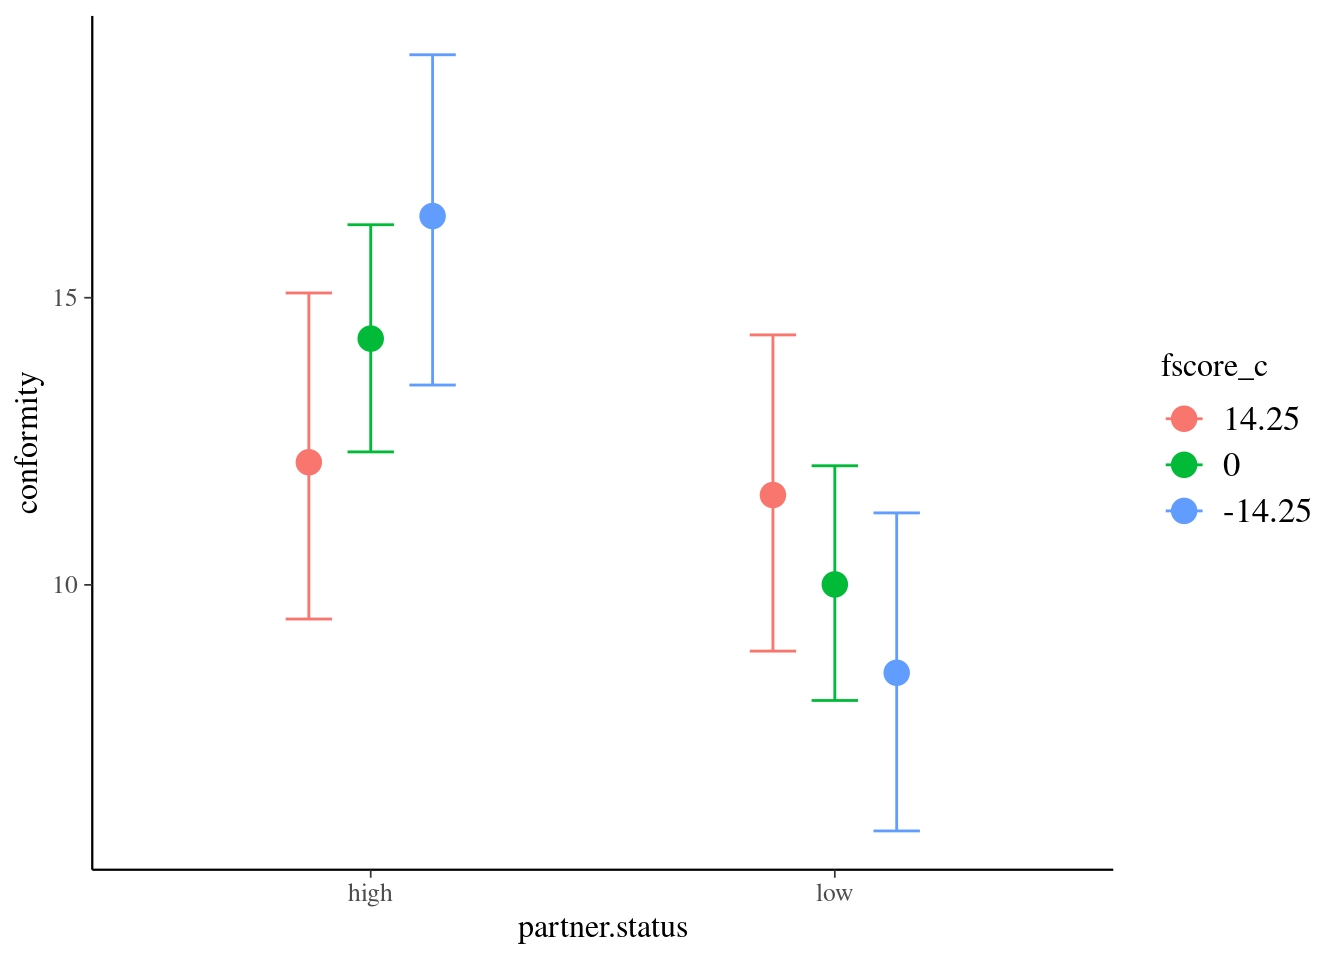
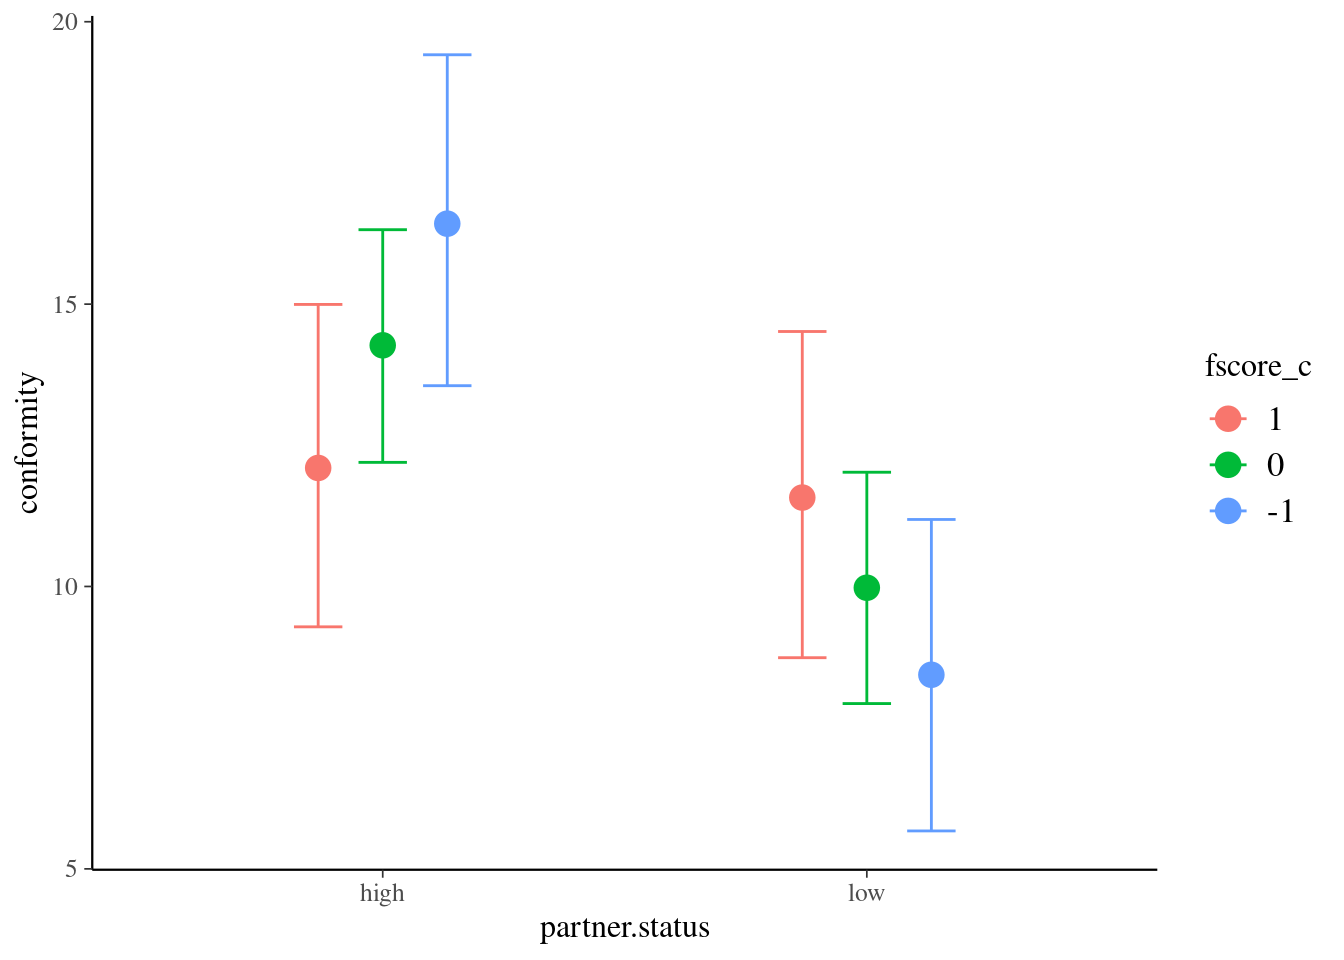
post1

diff --git a/post/test/index.html b/post/test/index.html
@@ -28,7 +28,8 @@
   
     
   
-  <meta name="description" content="Continuous and categorical predictors library(tidyverse) ## ── Attaching packages ──────────────────────────────────────────────────────────── tidyverse 1.2.1 ── ## ✔ ggplot2 3.1.0 ✔ purrr 0.3.0 ## ✔ tibble 2.0.1 ✔ dplyr 0.7.8 ## ✔ tidyr 0.8.2 ✔ stringr 1.3.1 ## ✔ readr 1.3.1 ✔ forcats 0.3.0 ## ── Conflicts ─────────────────────────────────────────────────────────────── tidyverse_conflicts() ── ## ✖ dplyr::filter() masks stats::filter() ## ✖ dplyr::lag() masks stats::lag() library(carData) data(Moore) Moore %&gt;% glimpse() ## Observations: 45 ## Variables: 4 ## $ partner.">
+  <meta name="description" content="This post is the first of a series of short tutorials on how to approach statistical analyses common among social psychologist using Bayesian approach and R package - brms
+Moderation analysis is one the most widely used tools to approach interactions in regression models with at least 1 continuous term. Its popularity has outbursted since the release of an SPSS/SAS macro PROCESS. PROCESS is easy to use and allows to fit a variety of models.">
 
   
   <link rel="alternate" hreflang="en-us" href="/post/test/">
@@ -123,7 +124,8 @@
   <meta property="og:site_name" content="Wiktor Soral">
   <meta property="og:url" content="/post/test/">
   <meta property="og:title" content="Bayesian moderation analysis | Wiktor Soral">
-  <meta property="og:description" content="Continuous and categorical predictors library(tidyverse) ## ── Attaching packages ──────────────────────────────────────────────────────────── tidyverse 1.2.1 ── ## ✔ ggplot2 3.1.0 ✔ purrr 0.3.0 ## ✔ tibble 2.0.1 ✔ dplyr 0.7.8 ## ✔ tidyr 0.8.2 ✔ stringr 1.3.1 ## ✔ readr 1.3.1 ✔ forcats 0.3.0 ## ── Conflicts ─────────────────────────────────────────────────────────────── tidyverse_conflicts() ── ## ✖ dplyr::filter() masks stats::filter() ## ✖ dplyr::lag() masks stats::lag() library(carData) data(Moore) Moore %&gt;% glimpse() ## Observations: 45 ## Variables: 4 ## $ partner."><meta property="og:image" content="/img/icon-192.png">
+  <meta property="og:description" content="This post is the first of a series of short tutorials on how to approach statistical analyses common among social psychologist using Bayesian approach and R package - brms
+Moderation analysis is one the most widely used tools to approach interactions in regression models with at least 1 continuous term. Its popularity has outbursted since the release of an SPSS/SAS macro PROCESS. PROCESS is easy to use and allows to fit a variety of models."><meta property="og:image" content="/img/icon-192.png">
   <meta property="og:locale" content="en-us">
   
   
@@ -328,7 +330,7 @@
   
   <span class="middot-divider"></span>
   <span class="article-reading-time">
-    2 min read
+    4 min read
   </span>
   
 
@@ -410,9 +412,16 @@
       
 
 
+<p><em>This post is the first of a series of short tutorials on how to approach statistical analyses common among social psychologist using Bayesian approach and R package - brms</em></p>
+<p>Moderation analysis is one the most widely used tools to approach interactions in regression models with at least 1 continuous term. Its popularity has outbursted since the release of an SPSS/SAS macro <a href="https://www.processmacro.org/">PROCESS</a>. PROCESS is easy to use and allows to fit a variety of models. However, it lacks certain capabilities (like ability to fit multilevel models or generalized regression models or mix of both). Also PROCESS cannot handle Bayesian moderation analysis. One can use <a href="https://jasp-stats.org/">JASP</a> to conduct Baysian regression analysis with interaction terms, but sadly it’s post-processing capabilities are quite limited (at least to me).</p>
+<p>In this post I will show, how to easily and in just a few steps fit Bayesian moderation model in R. As some of my colleagues admitted lack of R package that would replace PROCESS is one of the major factors that restrains them from swapping SPSS with R. Actually there are certain packages that aspire to replace PROCESS in R. Here, however I would to show you that you don’t need to use a specialized package and you can go on with a quite general one - <code>brms</code>.</p>
+<p>Lets start with something relatively simple and easy to follow.</p>
 <div id="continuous-and-categorical-predictors" class="section level2">
 <h2>Continuous and categorical predictors</h2>
-<pre class="r"><code>library(tidyverse)</code></pre>
+<p>In this post I will extensively use <code>tidyverse</code>.</p>
+<pre class="r"><code># install.packages(&quot;tidyverse&quot;)
+# install.packages(&quot;carData&quot;)
+library(tidyverse)</code></pre>
 <pre><code>## ── Attaching packages ──────────────────────────────────────────────────────────── tidyverse 1.2.1 ──</code></pre>
 <pre><code>## ✔ ggplot2 3.1.0     ✔ purrr   0.3.0
 ## ✔ tibble  2.0.1     ✔ dplyr   0.7.8
@@ -421,8 +430,10 @@
 <pre><code>## ── Conflicts ─────────────────────────────────────────────────────────────── tidyverse_conflicts() ──
 ## ✖ dplyr::filter() masks stats::filter()
 ## ✖ dplyr::lag()    masks stats::lag()</code></pre>
-<pre class="r"><code>library(carData)
+<pre class="r"><code>library(carData) # for an example dataset
+
 data(Moore)
+
 Moore %&gt;% 
   glimpse()</code></pre>
 <pre><code>## Observations: 45
@@ -431,18 +442,23 @@ Moore %&gt;%
 ## $ conformity     &lt;int&gt; 8, 4, 8, 7, 10, 6, 12, 4, 13, 12, 4, 13, 7, 9, 9,…
 ## $ fcategory      &lt;fct&gt; low, high, high, low, low, low, medium, medium, l…
 ## $ fscore         &lt;int&gt; 37, 57, 65, 20, 36, 18, 51, 44, 31, 36, 42, 56, 2…</code></pre>
+<p>By default contrast are set to <code>contr.treatment</code>. This means that a <span class="math inline">\(j\)</span> regression coefficient a categorical variable is interpreted as a difference of means between a level <span class="math inline">\(j+1\)</span> of the variable and a reference level <span class="math inline">\(1\)</span>.</p>
 <pre class="r"><code>contrasts(Moore$partner.status)</code></pre>
 <pre><code>##      low
 ## high   0
 ## low    1</code></pre>
+<p>We switch contrasts to <code>contr.sum</code> for the categorical variable.</p>
 <pre class="r"><code>contrasts(Moore$partner.status) &lt;- &quot;contr.sum&quot;
 contrasts(Moore$partner.status)</code></pre>
 <pre><code>##      [,1]
 ## high    1
 ## low    -1</code></pre>
+<p>We standardize the continuous variable - fscore.</p>
 <pre class="r"><code>Moore %&gt;% 
-  mutate(fscore_c = fscore - mean(fscore)) -&gt; Moore</code></pre>
-<pre class="r"><code>library(brms)</code></pre>
+  mutate(fscore_c = (fscore - mean(fscore))/sd(fscore)) -&gt; Moore</code></pre>
+<p>We fit our model with <code>brms</code> package. Both installation and fitting may take a while.</p>
+<pre class="r"><code># install.packages(&quot;brms&quot;)
+library(brms)</code></pre>
 <pre><code>## Ładowanie wymaganego pakietu: Rcpp</code></pre>
 <pre><code>## Loading &#39;brms&#39; package (version 2.7.0). Useful instructions
 ## can be found by typing help(&#39;brms&#39;). A more detailed introduction
@@ -455,6 +471,7 @@ fit1 &lt;-
       chains = 4, cores = 4)</code></pre>
 <pre><code>## Compiling the C++ model</code></pre>
 <pre><code>## Start sampling</code></pre>
+<p>Here we can print summary of posterior distribution of coefficients.</p>
 <pre class="r"><code>fit1</code></pre>
 <pre><code>##  Family: gaussian 
 ##   Links: mu = identity; sigma = identity 
@@ -465,10 +482,10 @@ fit1 &lt;-
 ## 
 ## Population-Level Effects: 
 ##                          Estimate Est.Error l-95% CI u-95% CI Eff.Sample
-## Intercept                   12.15      0.71    10.79    13.52       4859
-## partner.status1              2.14      0.72     0.69     3.58       5111
-## fscore_c                    -0.02      0.05    -0.12     0.08       5416
-## partner.status1:fscore_c    -0.13      0.05    -0.23    -0.03       4663
+## Intercept                   12.14      0.71    10.74    13.51       5360
+## partner.status1              2.14      0.75     0.73     3.61       4525
+## fscore_c                    -0.30      0.72    -1.75     1.13       4769
+## partner.status1:fscore_c    -1.86      0.71    -3.25    -0.43       4464
 ##                          Rhat
 ## Intercept                1.00
 ## partner.status1          1.00
@@ -477,13 +494,16 @@ fit1 &lt;-
 ## 
 ## Family Specific Parameters: 
 ##       Estimate Est.Error l-95% CI u-95% CI Eff.Sample Rhat
-## sigma     4.69      0.53     3.79     5.82       4094 1.00
+## sigma     4.70      0.54     3.80     5.89       3795 1.00
 ## 
 ## Samples were drawn using sampling(NUTS). For each parameter, Eff.Sample 
 ## is a crude measure of effective sample size, and Rhat is the potential 
 ## scale reduction factor on split chains (at convergence, Rhat = 1).</code></pre>
+<p>Here we print simple slopes.</p>
 <pre class="r"><code>marginal_effects(fit1, &quot;partner.status:fscore_c&quot;)</code></pre>
 <p><img src="/post/rmarkdown_files/figure-html/unnamed-chunk-7-1.png" width="672" /></p>
+<pre class="r"><code>marginal_effects(fit1, &quot;fscore_c:partner.status&quot;)</code></pre>
+<p><img src="/post/rmarkdown_files/figure-html/unnamed-chunk-8-1.png" width="672" /></p>
 </div>
 
     </div>
@@ -493,7 +513,7 @@ fit1 &lt;-
 
 <div class="article-tags">
   
-  <a class="badge badge-light" href="/tags/test/">Test</a>
+  <a class="badge badge-light" href="/tags/bayesian/">Bayesian</a>
   
 </div>
 

diff --git a/tags/bayesian/index.html b/tags/bayesian/index.html
@@ -1,3 +1,5 @@
+
+
 <!DOCTYPE html>
 <html lang="en-us">
 <head>
@@ -31,7 +33,7 @@
   <meta name="description" content="Personal blog on Wiktor Soral&#39;s research.">
 
   
-  <link rel="alternate" hreflang="en-us" href="/post/">
+  <link rel="alternate" hreflang="en-us" href="/tags/bayesian/">
 
   
 
@@ -98,15 +100,15 @@
   
 
   
-  <link rel="alternate" href="/post/index.xml" type="application/rss+xml" title="Wiktor Soral">
-  <link rel="feed" href="/post/index.xml" type="application/rss+xml" title="Wiktor Soral">
+  <link rel="alternate" href="/tags/bayesian/index.xml" type="application/rss+xml" title="Wiktor Soral">
+  <link rel="feed" href="/tags/bayesian/index.xml" type="application/rss+xml" title="Wiktor Soral">
   
 
   <link rel="manifest" href="/site.webmanifest">
   <link rel="icon" type="image/png" href="/img/icon.png">
   <link rel="apple-touch-icon" type="image/png" href="/img/icon-192.png">
 
-  <link rel="canonical" href="/post/">
+  <link rel="canonical" href="/tags/bayesian/">
 
   
   
@@ -121,8 +123,8 @@
   <meta property="twitter:creator" content="@WiktorSoral">
   
   <meta property="og:site_name" content="Wiktor Soral">
-  <meta property="og:url" content="/post/">
-  <meta property="og:title" content="Posts | Wiktor Soral">
+  <meta property="og:url" content="/tags/bayesian/">
+  <meta property="og:title" content="Bayesian | Wiktor Soral">
   <meta property="og:description" content="Personal blog on Wiktor Soral&#39;s research."><meta property="og:image" content="/img/icon-192.png">
   <meta property="og:locale" content="en-us">
   
@@ -133,7 +135,7 @@
 
   
 
-  <title>Posts | Wiktor Soral</title>
+  <title>Bayesian | Wiktor Soral</title>
 
 </head>
 <body id="top" data-spy="scroll" data-target="#TableOfContents" data-offset="71" class="dark">
@@ -295,7 +297,7 @@
     
   
 <div class="universal-wrapper pt-3">
-  <h1 itemprop="name">Posts</h1>
+  <h1 itemprop="name">Bayesian</h1>
 
   
 
@@ -305,86 +307,22 @@
 
 
 <div class="universal-wrapper">
-
   
 
   
   
-    
+  <div>
+    <h2><a href="/post/test/">Bayesian moderation analysis</a></h2>
+    <div class="article-style">
       
-
-<div class="media stream-item" itemscope itemprop="blogPost" itemtype="http://schema.org/BlogPosting">
-  <div class="media-body">
-
-    <h3 class="article-title mb-0 mt-0" itemprop="headline">
-      <a href="/post/test/" itemprop="url">Bayesian moderation analysis</a>
-    </h3>
-
-    
-    
+      This post is the first of a series of short tutorials on how to approach statistical analyses common among social psychologist using Bayesian approach and R package - brms
+Moderation analysis is one the most widely used tools to approach interactions in regression models with at least 1 continuous term. Its popularity has outbursted since the release of an SPSS/SAS macro PROCESS. PROCESS is easy to use and allows to fit a variety of models.
       
-    
-    
-    <div class="article-style" itemprop="articleBody">
-      This post is the first of a series of short tutorials on how to approach statistical analyses common among social psychologist using …
     </div>
-    
-
-    <div class="stream-meta">
-    
-
-
-
-<meta content="" itemprop="datePublished">
-<meta content="" itemprop="dateModified">
-
-<div class="article-metadata">
-
-  
-  
-
-  
-  <span class="article-date">
-    
-    
-      
-    
-    <time>Jan 1, 0001</time>
-  </span>
-  
-
-  
-
-  
-  <span class="middot-divider"></span>
-  <span class="article-reading-time">
-    4 min read
-  </span>
-  
-
-  
-  
-
-  
-
-  
-
-</div>
-
-    </div>
-
   </div>
-  <div class="ml-3">
-    
-    
-  </div>
-</div>
-
-    
   
 
   
-
 
 </div>
 <div class="container">
@@ -535,4 +473,6 @@
 
   </body>
 </html>
+
+
 

diff --git a/index.html b/index.html
@@ -1167,7 +1167,7 @@
     
     
     <div class="article-style" itemprop="articleBody">
-      Continuous and categorical predictors library(tidyverse) ## ── Attaching packages …
+      This post is the first of a series of short tutorials on how to approach statistical analyses common among social psychologist using …
     </div>
     
 
@@ -1199,7 +1199,7 @@
   
   <span class="middot-divider"></span>
   <span class="article-reading-time">
-    2 min read
+    4 min read
   </span>
   
 

diff --git a/tags/bayesian/page/1/index.html b/tags/bayesian/page/1/index.html
@@ -1,0 +1,1 @@
+<!DOCTYPE html><html><head><title>/tags/bayesian/</title><link rel="canonical" href="/tags/bayesian/"/><meta name="robots" content="noindex"><meta charset="utf-8" /><meta http-equiv="refresh" content="0; url=/tags/bayesian/" /></head></html>

diff --git a/tags/index.html b/tags/index.html
@@ -312,7 +312,7 @@
   
   
   <div>
-    <h2><a href="/tags/test/">Test</a></h2>
+    <h2><a href="/tags/bayesian/">Bayesian</a></h2>
     <div class="article-style">
       
     </div>
